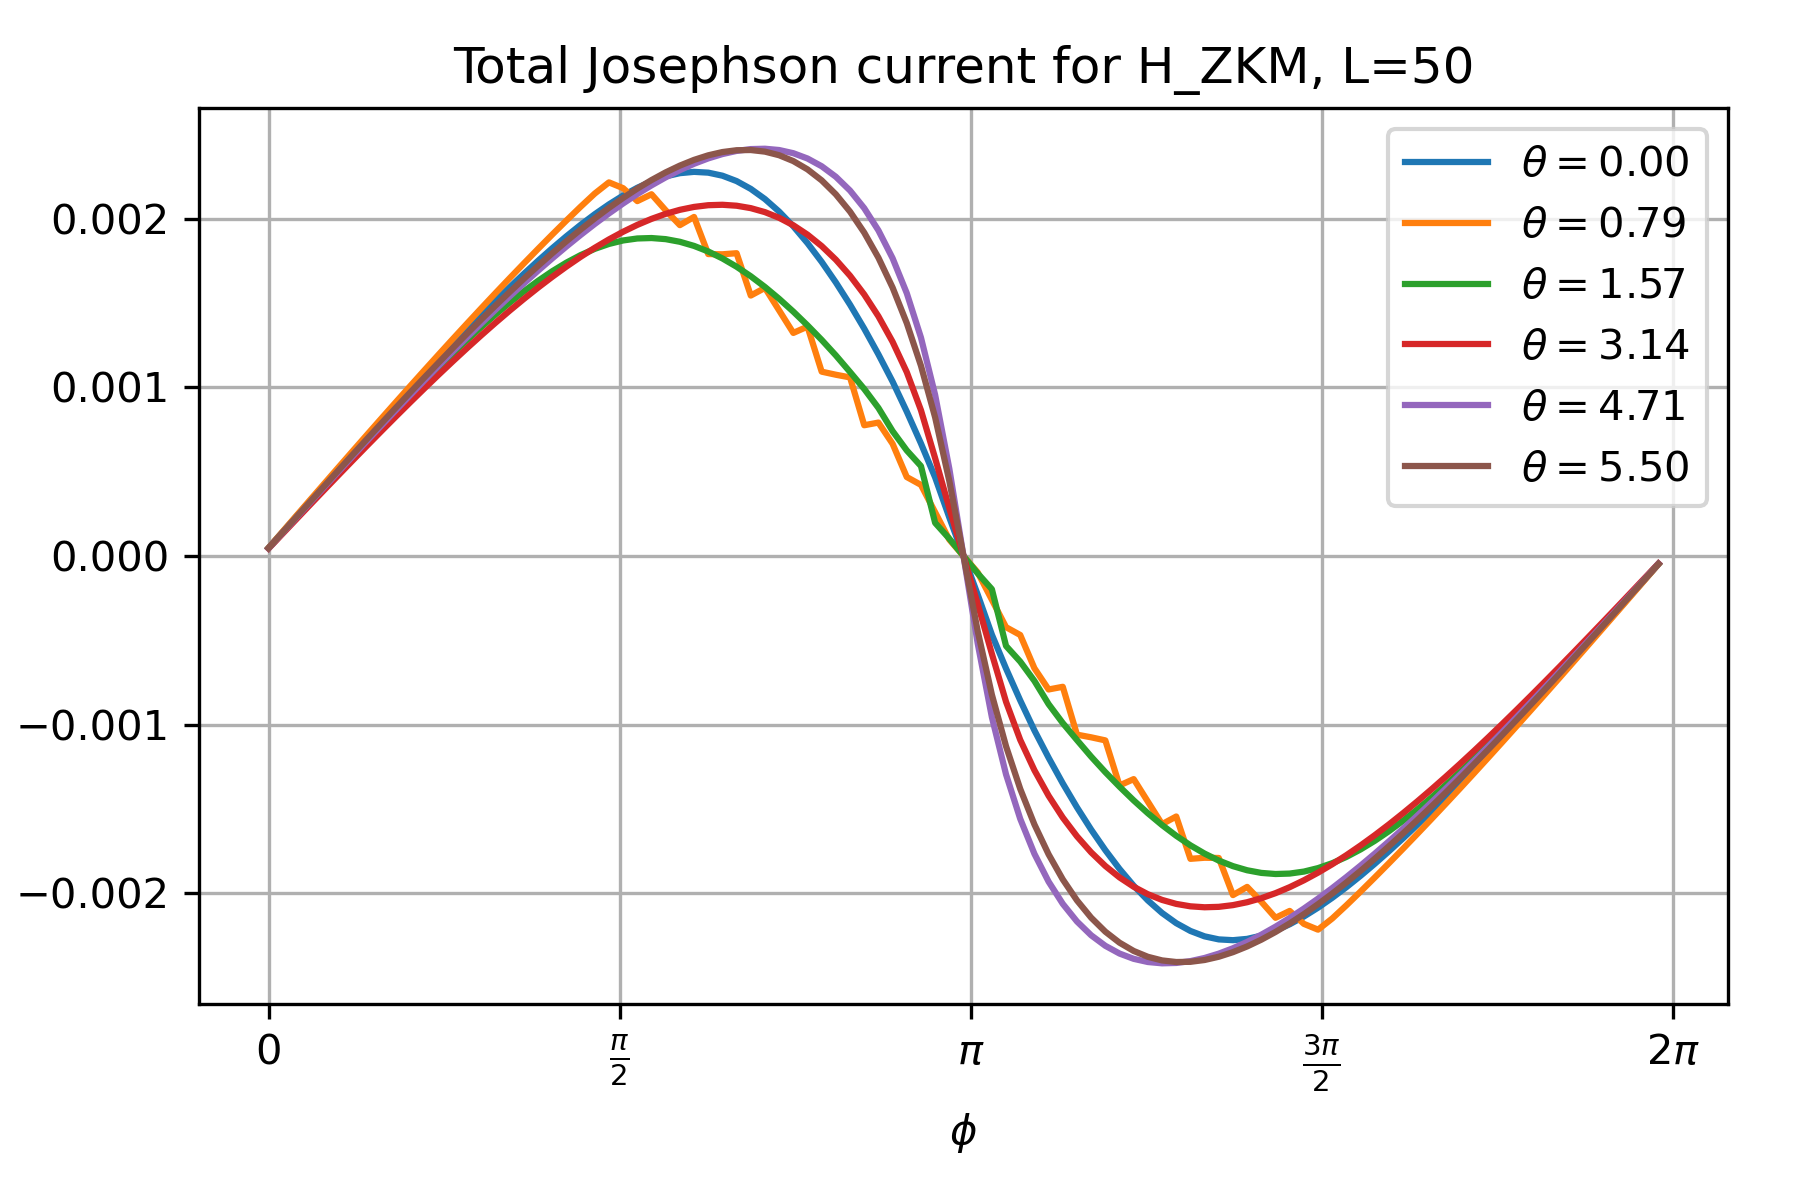
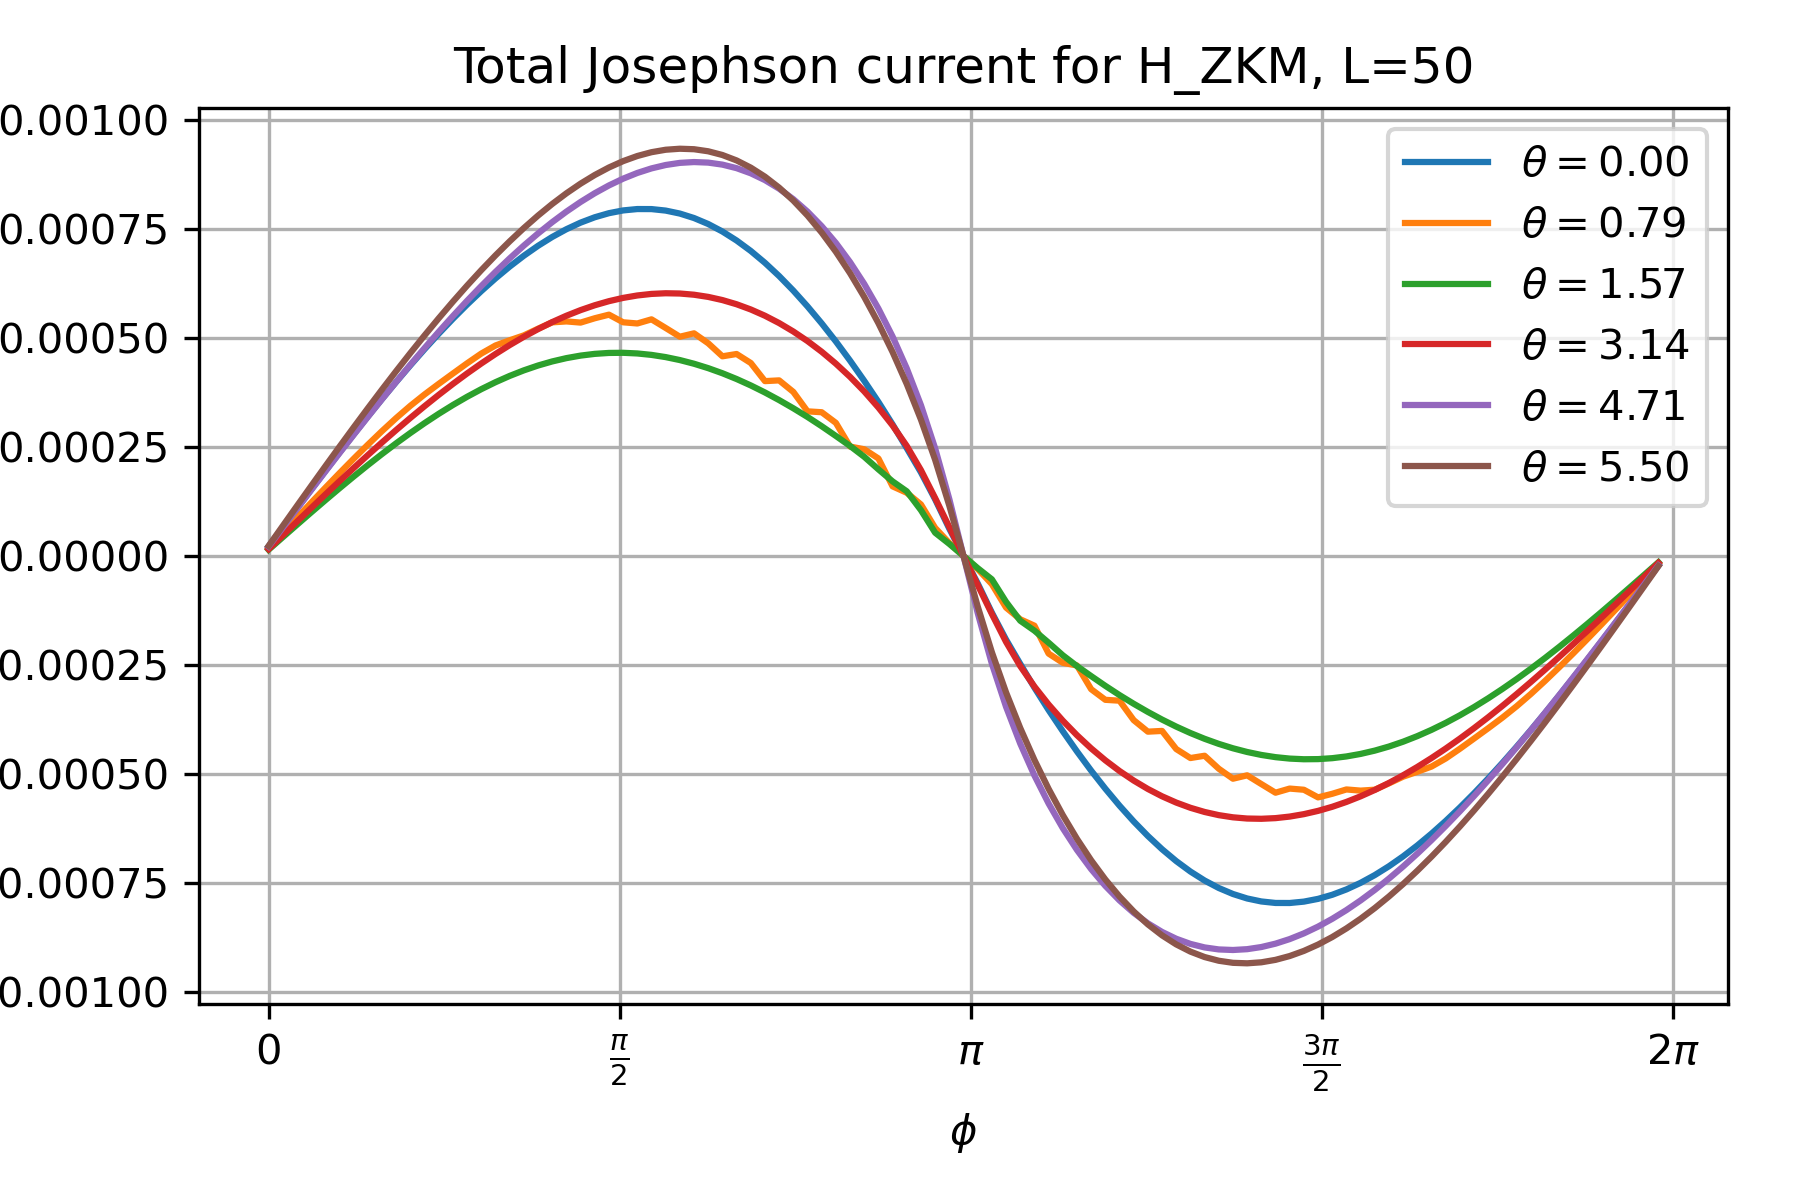
New script for effective H.

diff --git a/tilted_junction.py b/tilted_junction.py
@@ -149,35 +149,35 @@ def plot_total_current(t, t_J, mu, Delta_0, Delta_1, lambda_R,
 
 def main():
     # without crossing 
-    t = 1
-    t_J = t/2
-    mu = 2*t
-    Delta_0 = 0.4*t
-    Delta_1 = 0.2*t
-    lambda_R = 0.5*t
-    
-    # with crossing
     # t = 1
-    # t_J = t
-    # mu = t
+    # t_J = t/2
+    # mu = 2*t
     # Delta_0 = 0.4*t
-    # Delta_1 = 0.4*t
+    # Delta_1 = 0.2*t
     # lambda_R = 0.5*t
     
-    theta = 0
+    # with crossing
+    t = 1
+    t_J = t
+    mu = t
+    Delta_0 = 0.4*t
+    Delta_1 = 0.4*t
+    lambda_R = 0.5*t
+    
+    theta = np.pi
     L = 50
-    k = np.linspace(-np.pi, np.pi, 100)
+    k = np.linspace(-np.pi, -np.pi+0.5, 10)
     params = dict(t=t, mu=mu, Delta_0=Delta_0, Delta_1=Delta_1,
                   lambda_R=lambda_R, L=L,
                   t_J=t_J, theta=theta)
     
-    #fig, ax = plot_k_resolved_current(k=k, **params)
+    fig, ax = plot_k_resolved_current(k=k, **params)
     #fig.savefig(os.getcwd()+f"/Images/Tilted/Josephson_H_ZKM_crossing_L={L}_theta={theta:.2f}.png")
 
     params.pop("theta")
     theta = [0, np.pi/4, np.pi/2, np.pi, 3*np.pi/2, 7*np.pi/4]
-    fig, ax = plot_total_current(k=k, theta=theta, **params)
-    fig.savefig(os.getcwd()+f"/Images/Tilted/Total_Josephson_H_ZKM_without_crossing_L={L}.png")
+    #fig, ax = plot_total_current(k=k, theta=theta, **params)
+    #fig.savefig(os.getcwd()+f"/Images/Tilted/Total_Josephson_H_ZKM_without_crossing_L={L}.png")
 
 if __name__ == '__main__':
     main()

diff --git a/effective_hamiltonian.py b/effective_hamiltonian.py
@@ -1,0 +1,14 @@
+#!/usr/bin/env python3
+# -*- coding: utf-8 -*-
+"""
+Created on Wed Mar  2 16:12:14 2022
+
+@author: usuario
+"""
+
+def effective_current(k, phi):
+    """
+    Equation (43) of [Schmalian] for the effective
+    current for the ZKM model.
+    """
+    t_1k = 
